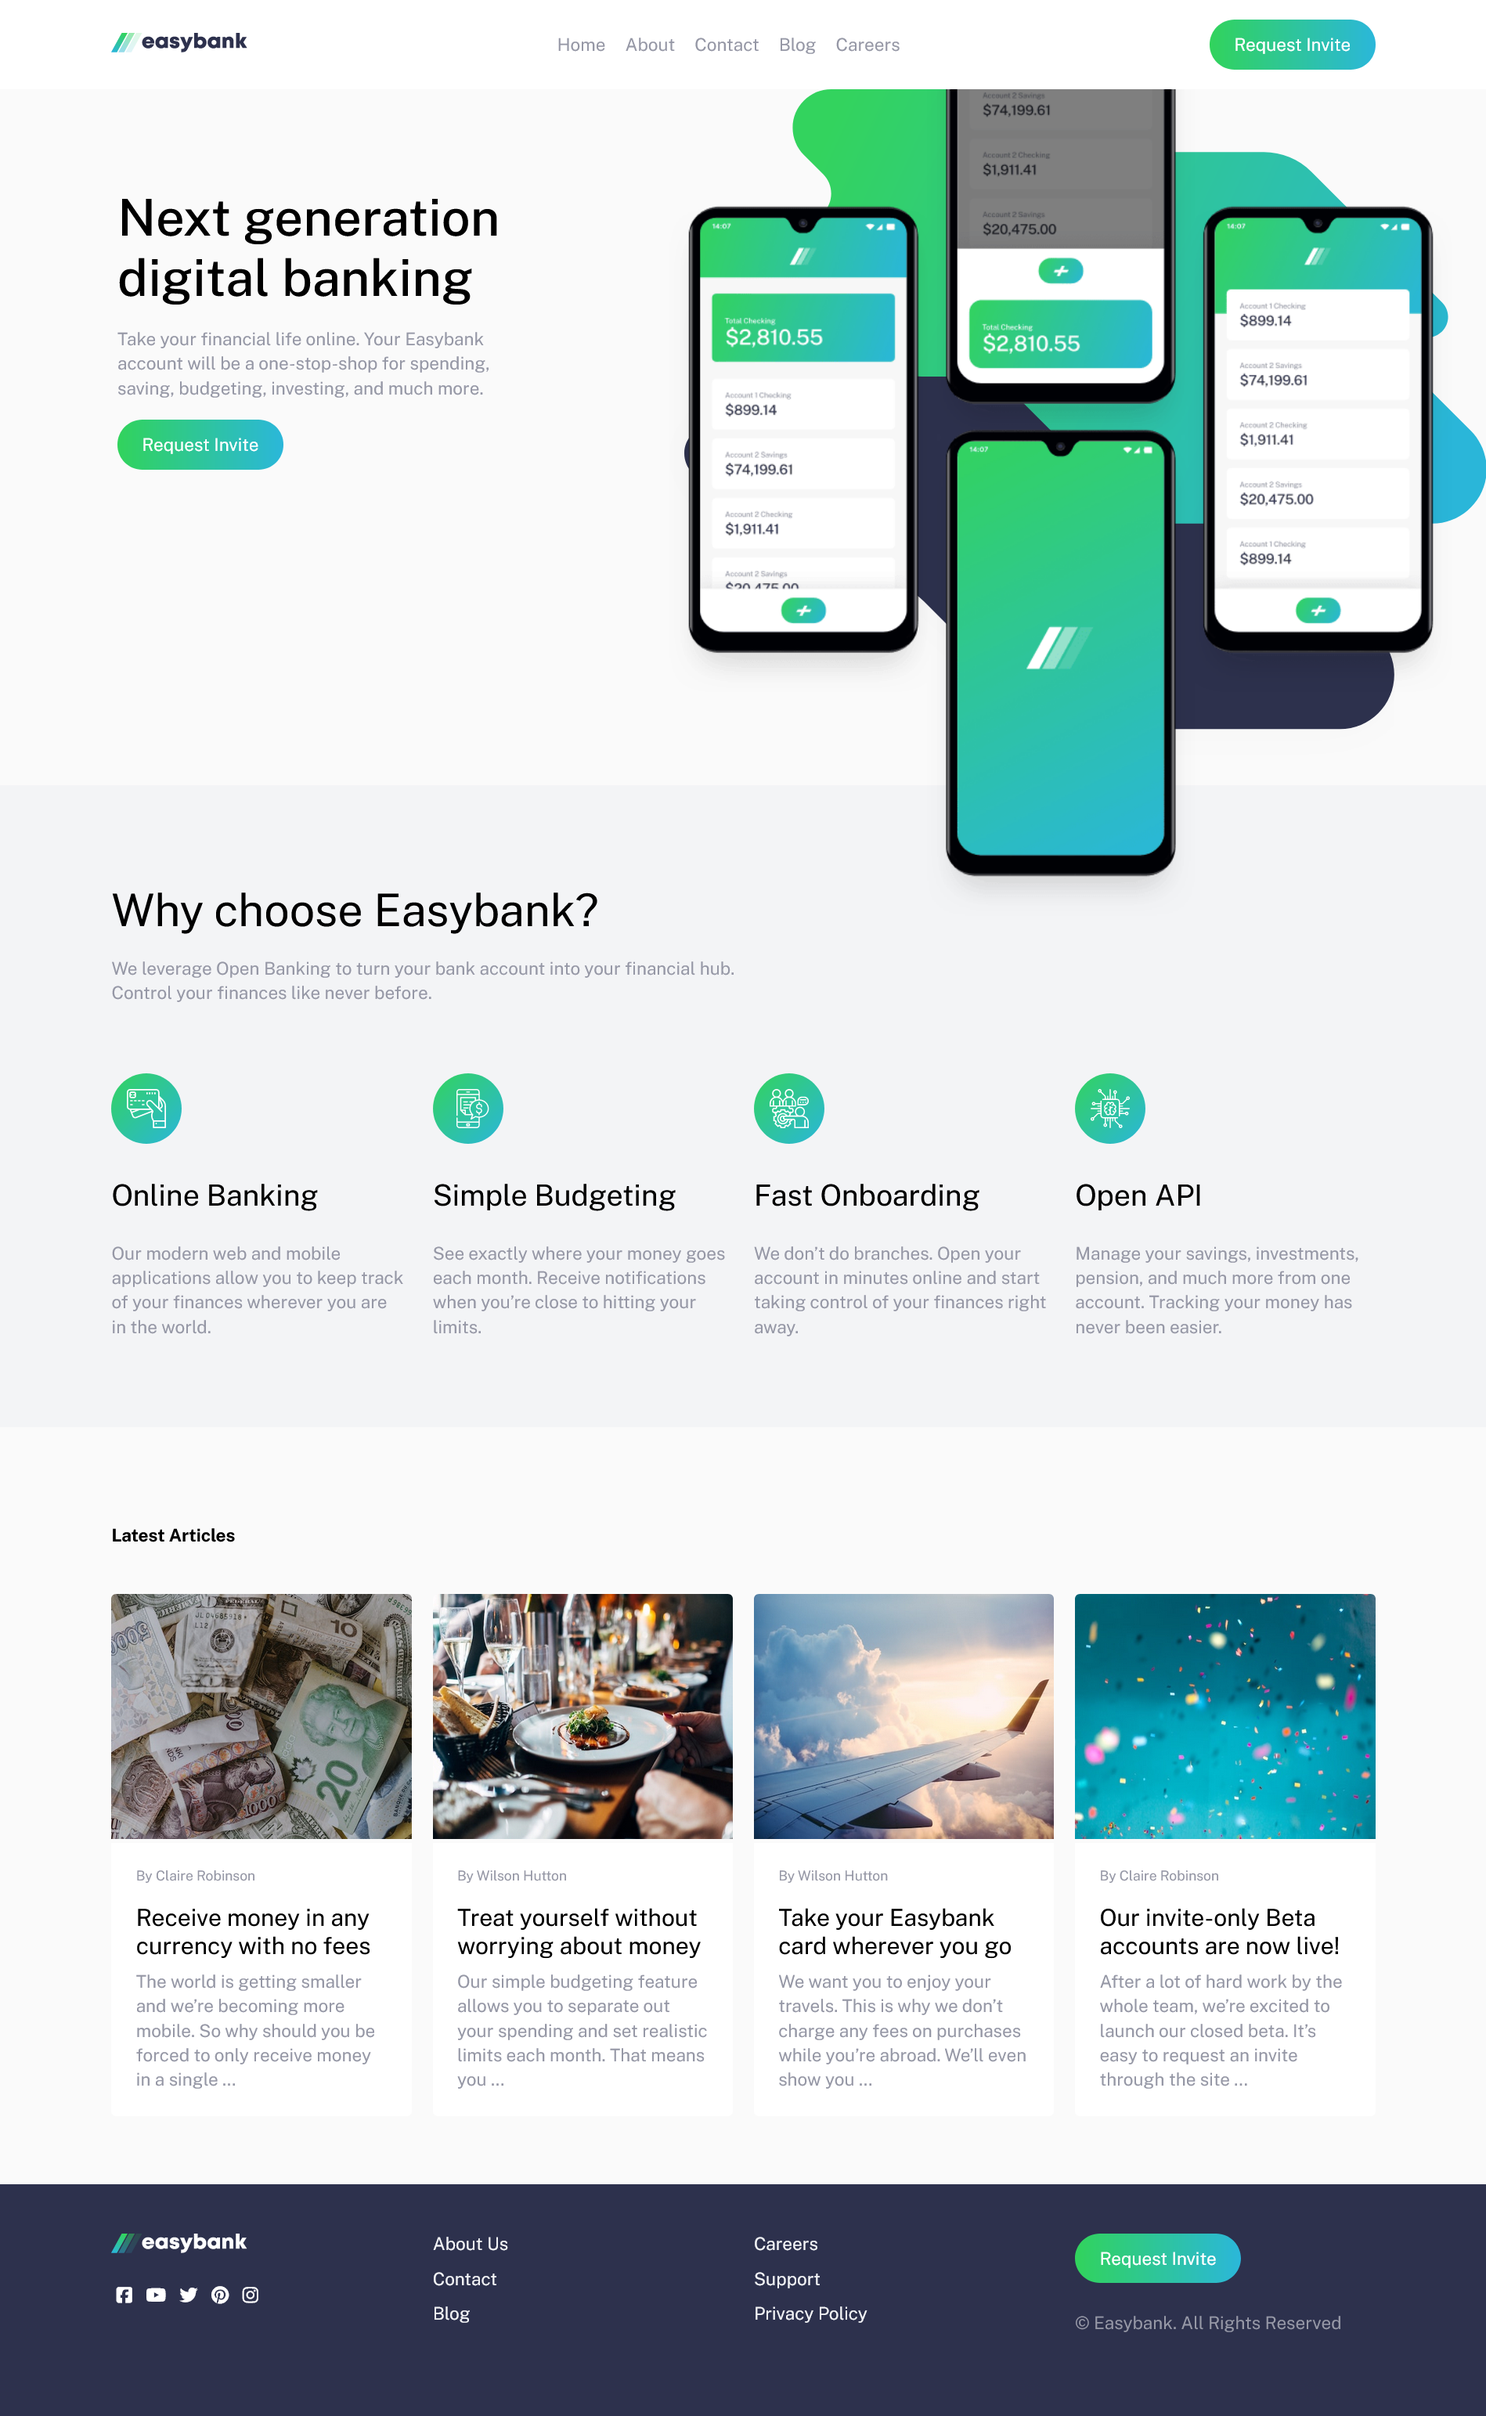
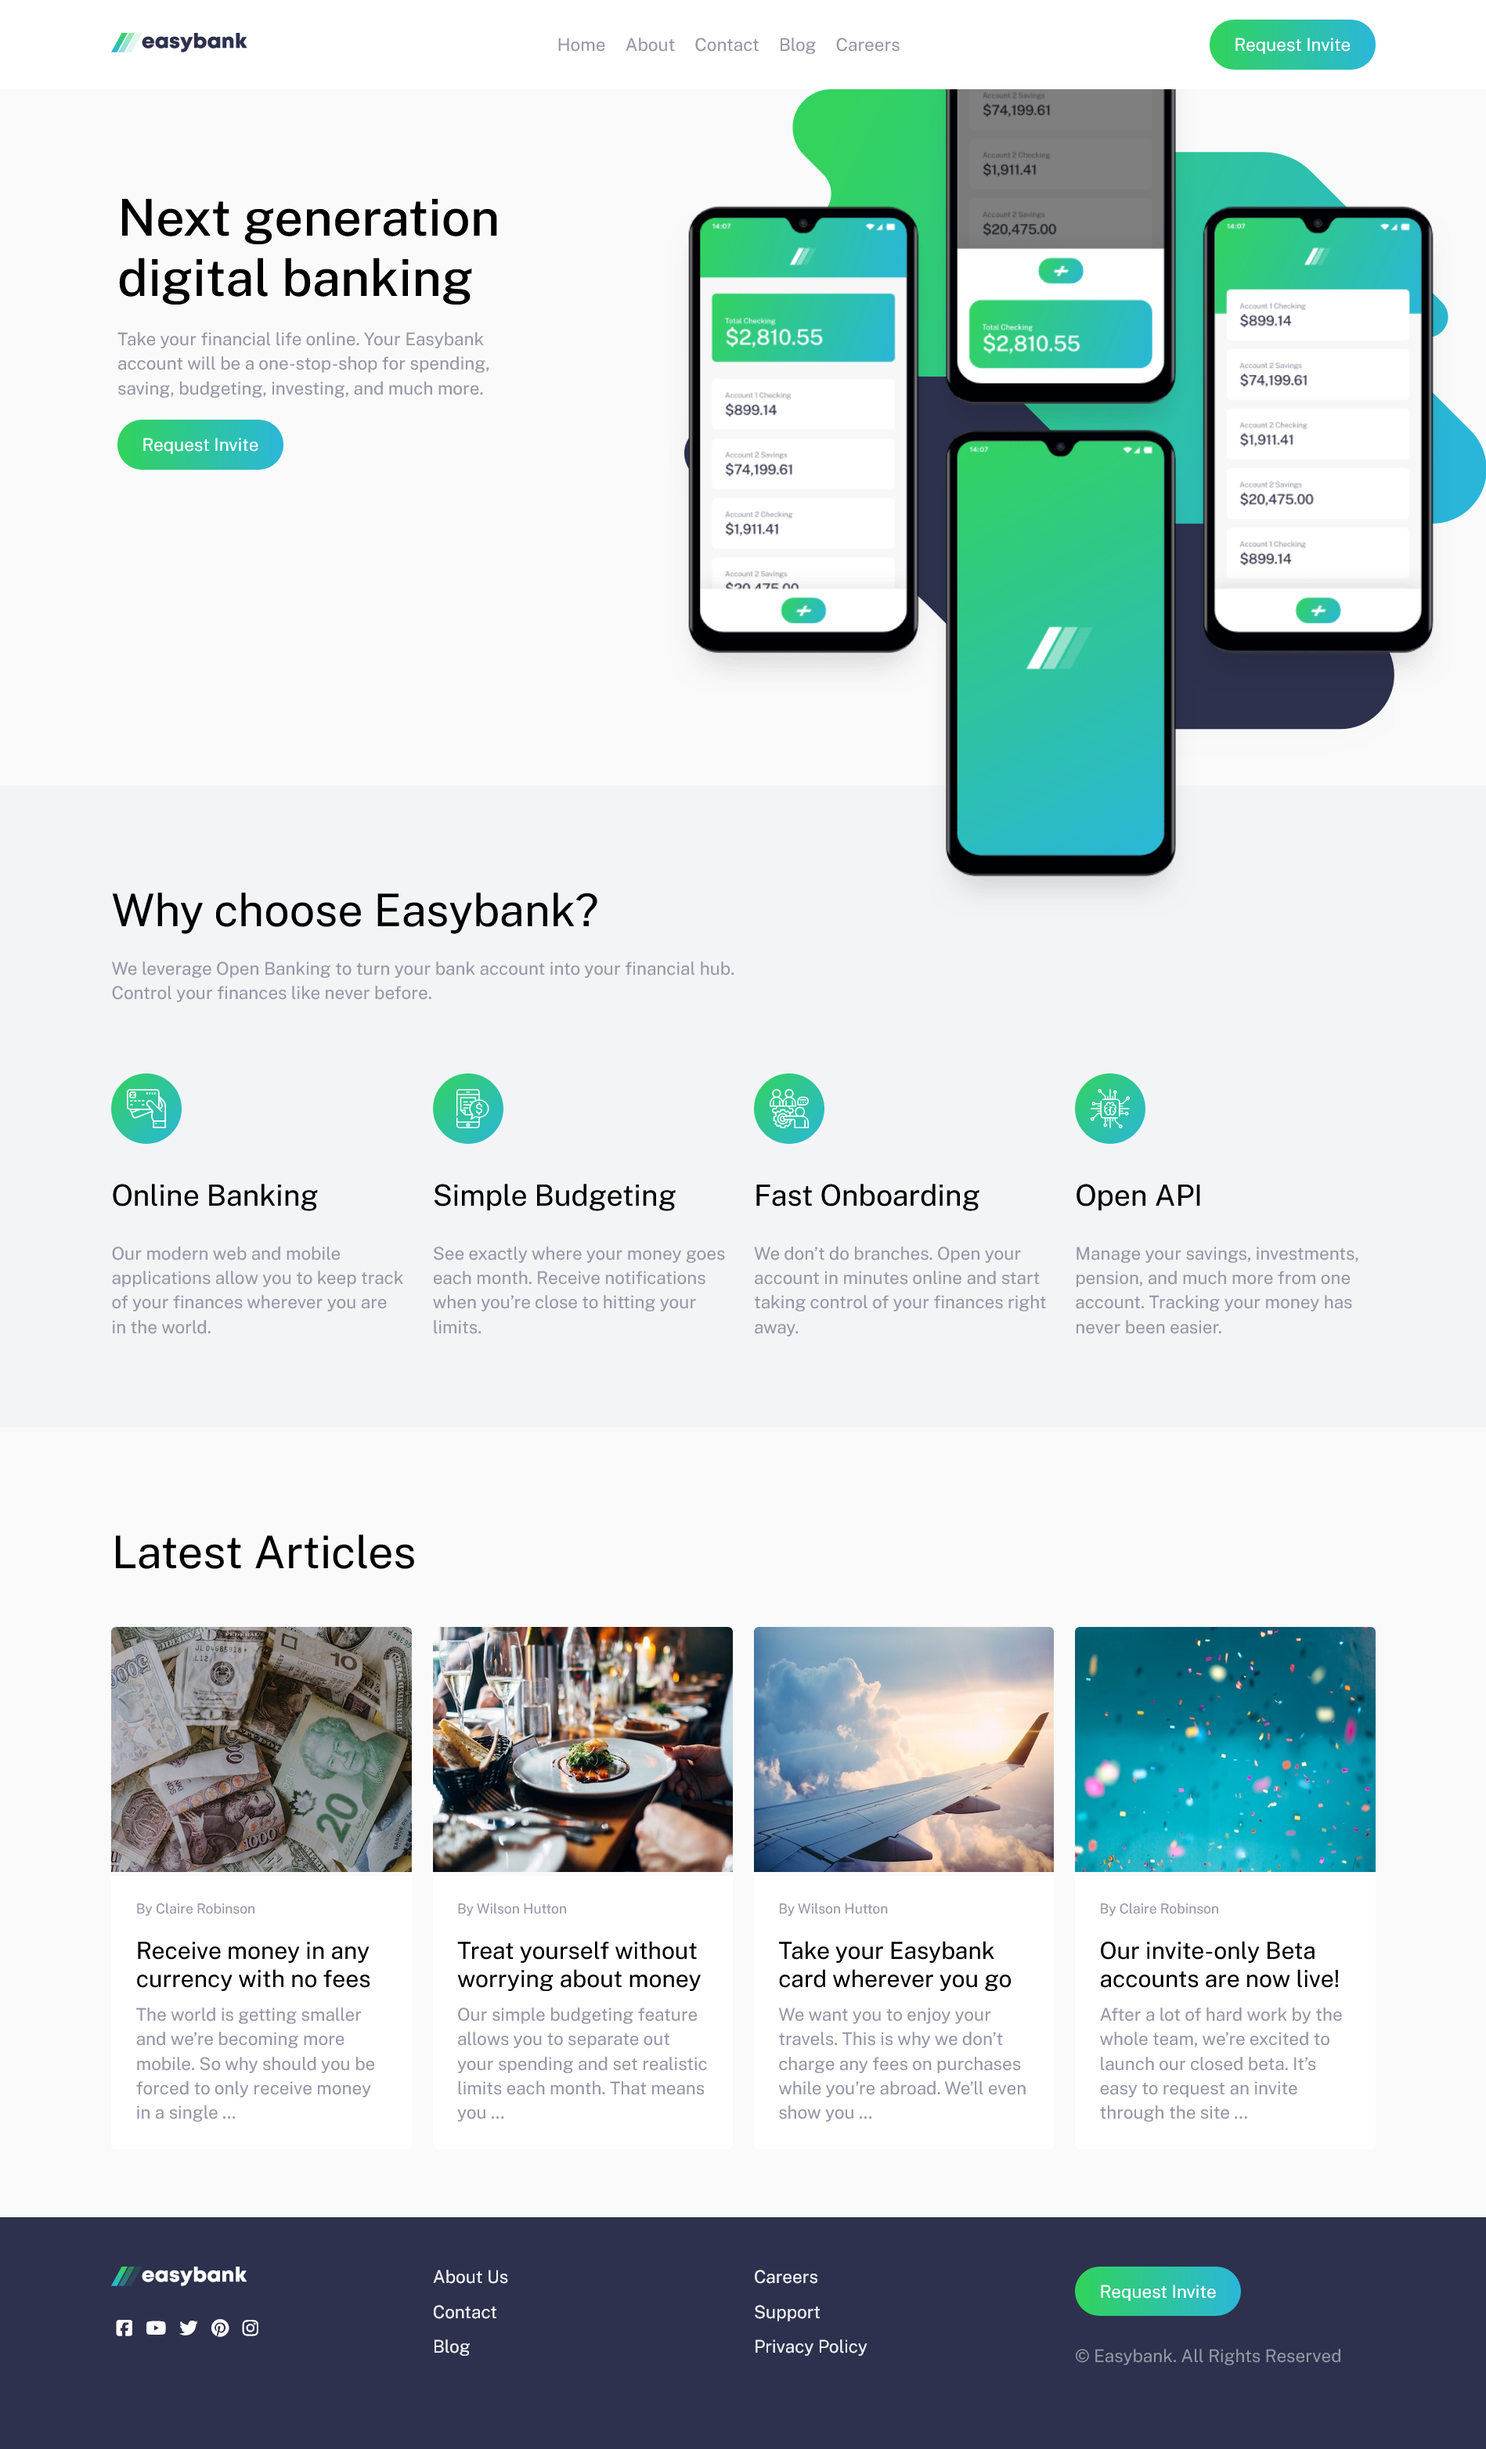
Update

diff --git a/css/style.css b/css/style.css
@@ -171,7 +171,7 @@ main section {
   text-align: center;
 }
 
-.why-choose .container .title-sec {
+.title-sec {
   font-size: 46px;
   font-weight: 400;
 }
